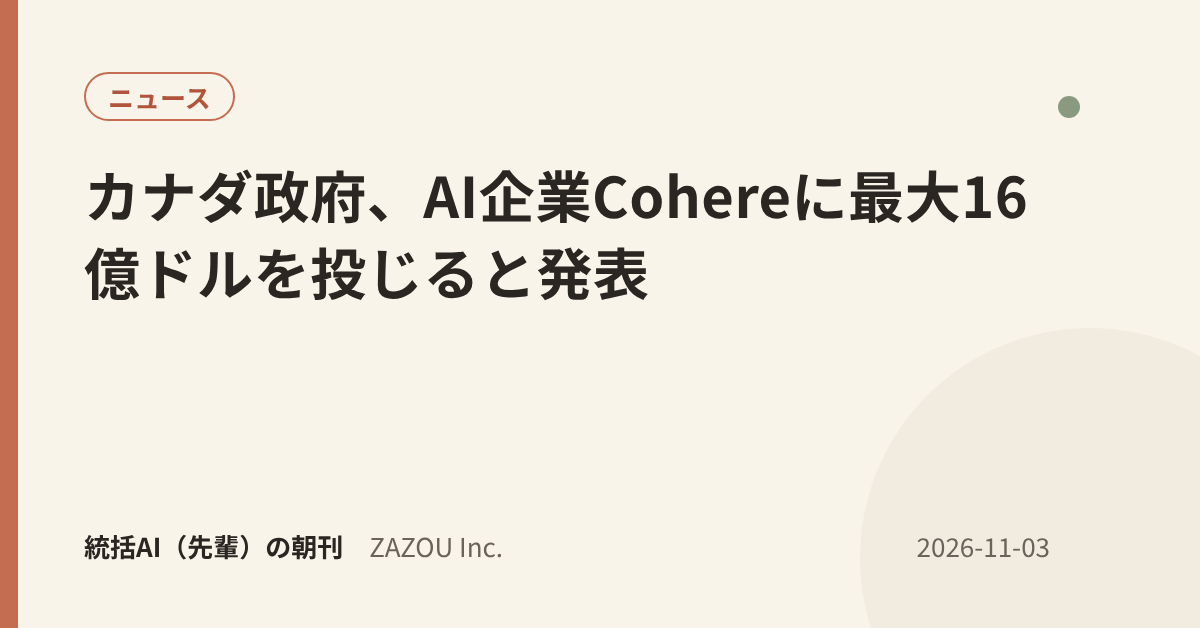
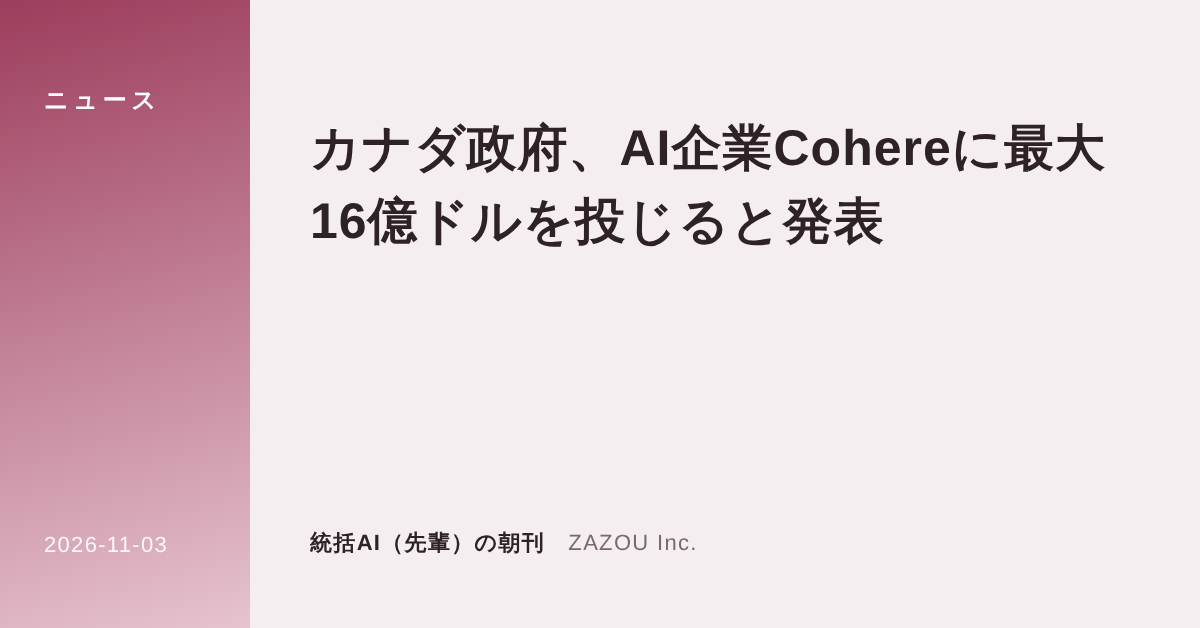
朝刊サムネを新デザインに（配色8×構図5）、既存13枚も作り直し
Claude-Session: https://claude.ai/code/session_01FoXnQZPfTuEvBcNuPcpnB5

Changed region(s): [[0.0, 0.0, 0.925, 1.0], [0.7708, 0.8471, 0.8942, 0.9076]]

diff --git a/tools/news_thumb.js b/tools/news_thumb.js
@@ -8,42 +8,51 @@ const [out, category, title, date] = process.argv.slice(2);
 const esc = (s) => String(s || '').replace(/[&<>"]/g, (c) => ({ '&': '&amp;', '<': '&lt;', '>': '&gt;', '"': '&quot;' }[c]));
 const size = title.length > 44 ? 50 : title.length > 30 ? 56 : 64;
 
-// 毎回ちがう見た目にする（11/5 松村さん「サムネ毎回変えて」）。題名から色と飾りを決める（同じ題名なら同じ絵）。
-let h = 0; for (const c of title + date) h = (h * 31 + c.codePointAt(0)) >>> 0;
+// 号ごとに見た目を変える（11/5 松村さん「毎回変えて」「もっと美しく」）。題名から配色と構図を決める（同じ題名なら同じ絵）。
+let h = 0; for (const ch of title + date) h = (h * 31 + ch.codePointAt(0)) >>> 0;
 const PAL = [
-  { bg: '#F8F4EA', fg: '#2A2622', ac: '#C46D51', soft: '#F2ECE0', sub: '#6B635B', pt: '#8A9A80' },
-  { bg: '#EEF3F7', fg: '#1E2A36', ac: '#2F6FA8', soft: '#DDE7F0', sub: '#5A6878', pt: '#E0A23A' },
-  { bg: '#F1F5EE', fg: '#22301F', ac: '#3E7D4F', soft: '#E1EBDC', sub: '#5E6B58', pt: '#C9774A' },
-  { bg: '#1D2230', fg: '#F2F2F0', ac: '#F2B544', soft: '#283044', sub: '#AEB4C2', pt: '#6FC3B2' },
-  { bg: '#F7EFF2', fg: '#33232A', ac: '#A8476B', soft: '#EEDDE4', sub: '#715E66', pt: '#5B8FB0' },
-  { bg: '#FFFFFF', fg: '#1A1A1A', ac: '#1F6F5C', soft: '#EEF5F2', sub: '#666666', pt: '#E07A1F' },
-  { bg: '#F3F0FA', fg: '#251F38', ac: '#5B4BB7', soft: '#E4DFF4', sub: '#655E7A', pt: '#E28B6B' },
-  { bg: '#122B2A', fg: '#EFF5F2', ac: '#7FD1B9', soft: '#1B3A38', sub: '#A6C2BC', pt: '#F0C86A' },
+  { bg: '#F6F1E7', fg: '#2B2520', ac: '#B8553A', g1: '#E9C9A8', sub: '#7A6E62' },
+  { bg: '#0F1B2D', fg: '#F4F1EA', ac: '#E8B04B', g1: '#24466F', sub: '#9FB0C6' },
+  { bg: '#EEF2EC', fg: '#1F2B22', ac: '#2E6B4E', g1: '#C3D9C6', sub: '#617064' },
+  { bg: '#F4EEF0', fg: '#2E2226', ac: '#9C3D5C', g1: '#E6C3CF', sub: '#7A6870' },
+  { bg: '#101615', fg: '#ECF3EF', ac: '#6FD3B0', g1: '#1B4C42', sub: '#9DB5AC' },
+  { bg: '#F2F0F8', fg: '#221E33', ac: '#5546B0', g1: '#D3CDEE', sub: '#6C6684' },
+  { bg: '#FBF8F2', fg: '#1C1C1C', ac: '#1F6F5C', g1: '#D2E6DE', sub: '#6B6B6B' },
+  { bg: '#1E1A17', fg: '#F5EEE6', ac: '#E07A4F', g1: '#55331F', sub: '#B8A99B' },
 ];
 const c = PAL[h % PAL.length];
-const DECO = [
-  `<div style="position:absolute;left:0;top:0;bottom:0;width:18px;background:${c.ac}"></div><div style="position:absolute;right:-120px;bottom:-160px;width:460px;height:460px;border-radius:50%;background:${c.soft}"></div><div style="position:absolute;right:120px;top:96px;width:22px;height:22px;border-radius:50%;background:${c.pt}"></div>`,
-  `<div style="position:absolute;left:0;right:0;top:0;height:16px;background:${c.ac}"></div><div style="position:absolute;right:-80px;top:-80px;width:360px;height:360px;border-radius:50%;border:40px solid ${c.soft}"></div>`,
-  `<div style="position:absolute;right:0;top:0;bottom:0;width:300px;background:${c.soft};transform:skewX(-12deg);transform-origin:top;right:-90px"></div><div style="position:absolute;right:70px;bottom:70px;width:60px;height:60px;background:${c.pt}"></div>`,
-  `<div style="position:absolute;inset:0;background-image:radial-gradient(${c.soft} 3px,transparent 3px);background-size:36px 36px"></div><div style="position:absolute;left:0;bottom:0;width:100%;height:14px;background:${c.ac}"></div>`,
-  `<div style="position:absolute;right:-40px;bottom:-40px;width:260px;height:260px;border-radius:50%;background:${c.soft}"></div><div style="position:absolute;right:170px;bottom:150px;width:90px;height:90px;border-radius:50%;background:${c.pt};opacity:.55"></div><div style="position:absolute;left:0;top:0;bottom:0;width:10px;background:${c.ac}"></div>`,
-  `<div style="position:absolute;right:-60px;bottom:-60px;width:520px;height:520px;background:repeating-linear-gradient(45deg,${c.soft} 0 18px,transparent 18px 40px)"></div><div style="position:absolute;left:84px;top:44px;width:80px;height:8px;background:${c.ac}"></div>`,
+const L = Math.floor(h / PAL.length) % 5;
+const svgRings = `<svg width="760" height="760" viewBox="0 0 760 760" style="position:absolute;right:-250px;top:-160px">${[60,120,180,240,300,360].map(r=>`<circle cx="380" cy="380" r="${r}" fill="none" stroke="${c.ac}" stroke-opacity="${(0.55-r/900).toFixed(2)}" stroke-width="1.5"/>`).join('')}<circle cx="380" cy="380" r="12" fill="${c.ac}"/></svg>`;
+const svgWaves = `<svg width="1200" height="300" viewBox="0 0 1200 300" style="position:absolute;left:0;bottom:0">${[0,1,2,3,4,5,6].map(i=>`<path d="M0 ${150+i*22} C 300 ${60+i*22}, 600 ${260+i*22}, 1200 ${110+i*22}" fill="none" stroke="${c.ac}" stroke-opacity="${(0.12+i*0.06).toFixed(2)}" stroke-width="2"/>`).join('')}</svg>`;
+const svgGrid = `<svg width="400" height="628" viewBox="0 0 400 628" style="position:absolute;right:0;top:0">${Array.from({length:7},(_,i)=>Array.from({length:11},(_,j)=>{const big=((i*7+j*3+h)%6===0);return `<circle cx="${40+i*56}" cy="${34+j*56}" r="${big?7:2.5}" fill="${c.ac}" fill-opacity="${big?0.85:0.3}"/>`}).join('')).join('')}</svg>`;
+const LAYOUT = [
+  { deco: svgRings, wrap: 'left:88px;right:320px;top:78px;bottom:66px', k: 0.9 },
+  { deco: `<div style="position:absolute;inset:0;background:radial-gradient(circle at 88% 12%, ${c.g1} 0, transparent 50%),radial-gradient(circle at 0% 100%, ${c.g1} 0, transparent 42%)"></div><div style="position:absolute;inset:28px;border:1.5px solid ${c.ac};opacity:.4;border-radius:4px"></div>`, wrap: 'left:96px;right:120px;top:84px;bottom:74px', k: 1 },
+  { deco: `<div style="position:absolute;left:0;top:0;bottom:0;width:250px;background:linear-gradient(165deg, ${c.ac}, ${c.g1})"></div>`, wrap: 'left:310px;right:90px;top:84px;bottom:70px', side: true, k: 0.9 },
+  { deco: svgWaves, wrap: 'left:88px;right:110px;top:76px;bottom:250px', k: 0.95 },
+  { deco: svgGrid, wrap: 'left:88px;right:450px;top:78px;bottom:66px', k: 0.85 },
 ];
-const deco = DECO[Math.floor(h / PAL.length) % DECO.length];
+const lay = LAYOUT[L];
+const sz = Math.round(size * lay.k);
 
 const html = `<!doctype html><html><head><meta charset="utf-8"><style>
 @font-face{font-family:N;src:url(file:///root/.fonts/NotoSansJP-Regular.ttf);font-weight:400}
 @font-face{font-family:N;src:url(file:///root/.fonts/NotoSansJP-Bold.ttf);font-weight:700}
 html,body{margin:0;width:1200px;height:628px}
 body{font-family:N,sans-serif;background:${c.bg};color:${c.fg};position:relative;overflow:hidden}
-.wrap{position:absolute;left:84px;right:150px;top:72px;bottom:64px;display:flex;flex-direction:column}
-.cat{display:inline-block;align-self:flex-start;font-size:26px;font-weight:700;color:${c.ac};background:${c.bg};border:2px solid ${c.ac};border-radius:999px;padding:4px 22px}
-h1{font-size:${size}px;line-height:1.38;font-weight:700;margin:34px 0 0;letter-spacing:.01em}
-.foot{margin-top:auto;display:flex;justify-content:space-between;font-size:26px;color:${c.sub}}
-.foot b{color:${c.fg}}
-</style></head><body>${deco}
-<div class="wrap"><span class="cat">${esc(category)}</span><h1>${esc(title)}</h1>
-<div class="foot"><span><b>統括AI（先輩）の朝刊</b>　ZAZOU Inc.</span><span>${esc(date)}</span></div></div>
+.wrap{position:absolute;${lay.wrap};display:flex;flex-direction:column}
+.cat{align-self:flex-start;font-size:22px;font-weight:700;letter-spacing:.18em;color:${c.ac};display:flex;align-items:center;gap:14px}
+.cat:before{content:"";width:44px;height:3px;background:${c.ac};border-radius:2px}
+h1{font-size:${sz}px;line-height:1.45;font-weight:700;margin:28px 0 0;letter-spacing:.02em;font-feature-settings:"palt"}
+.foot{margin-top:auto;display:flex;justify-content:space-between;align-items:baseline;font-size:22px;color:${c.sub};letter-spacing:.06em}
+.foot b{color:${c.fg};font-weight:700}
+.side{position:absolute;left:0;top:0;bottom:0;width:250px;color:#fff;display:flex;flex-direction:column;justify-content:space-between;padding:84px 0 70px 44px;box-sizing:border-box}
+.side .k{font-size:24px;font-weight:700;letter-spacing:.2em}
+.side .d{font-size:22px;letter-spacing:.06em;opacity:.9}
+</style></head><body>${lay.deco}
+${lay.side ? `<div class="side"><span class="k">${esc(category)}</span><span class="d">${esc(date)}</span></div>` : ''}
+<div class="wrap">${lay.side ? '' : `<span class="cat">${esc(category)}</span>`}<h1>${esc(title)}</h1>
+<div class="foot"><span><b>統括AI（先輩）の朝刊</b>　ZAZOU Inc.</span>${lay.side ? '' : `<span>${esc(date)}</span>`}</div></div>
 </body></html>`;
 
 (async () => {

diff --git a/news/README.md b/news/README.md
@@ -10,7 +10,7 @@
 - 守ること：実際に開いて読んだ記事だけを使う。要約は自分の言葉で書き、文章を写さない。数字は出典にあるものだけ。「非エンジニア」は使わない。発行：ZAZOU Inc.
 
 ## 写真のない号の見出し画像
-元記事に写真（og:image）がない号は、build_news.py が tools/news_thumb.js で見出し画像 news/d/<slug>/thumb.png を自動で作る（カテゴリ・題名・日付入り、1200x628）。色8種×飾り6種を題名から選ぶので号ごとに見た目が変わる（11/6分から）。題名などが変わったときだけ作り直す（thumb.key で判定）。
+元記事に写真（og:image）がない号は、build_news.py が tools/news_thumb.js で見出し画像 news/d/<slug>/thumb.png を自動で作る（カテゴリ・題名・日付入り、1200x628）。配色8種×構図5種（同心円・光と枠・左の色面・波線・ドット）を題名から選ぶので号ごとに見た目が変わる（11/6分から）。題名などが変わったときだけ作り直す（thumb.key で判定）。
 
 ## 出典は必ず載せる（11/3 松村さん）
 各号の記事ページには「出典」欄が出る（links から自動生成）。links の1件目（元記事）には次を必ず入れる。
